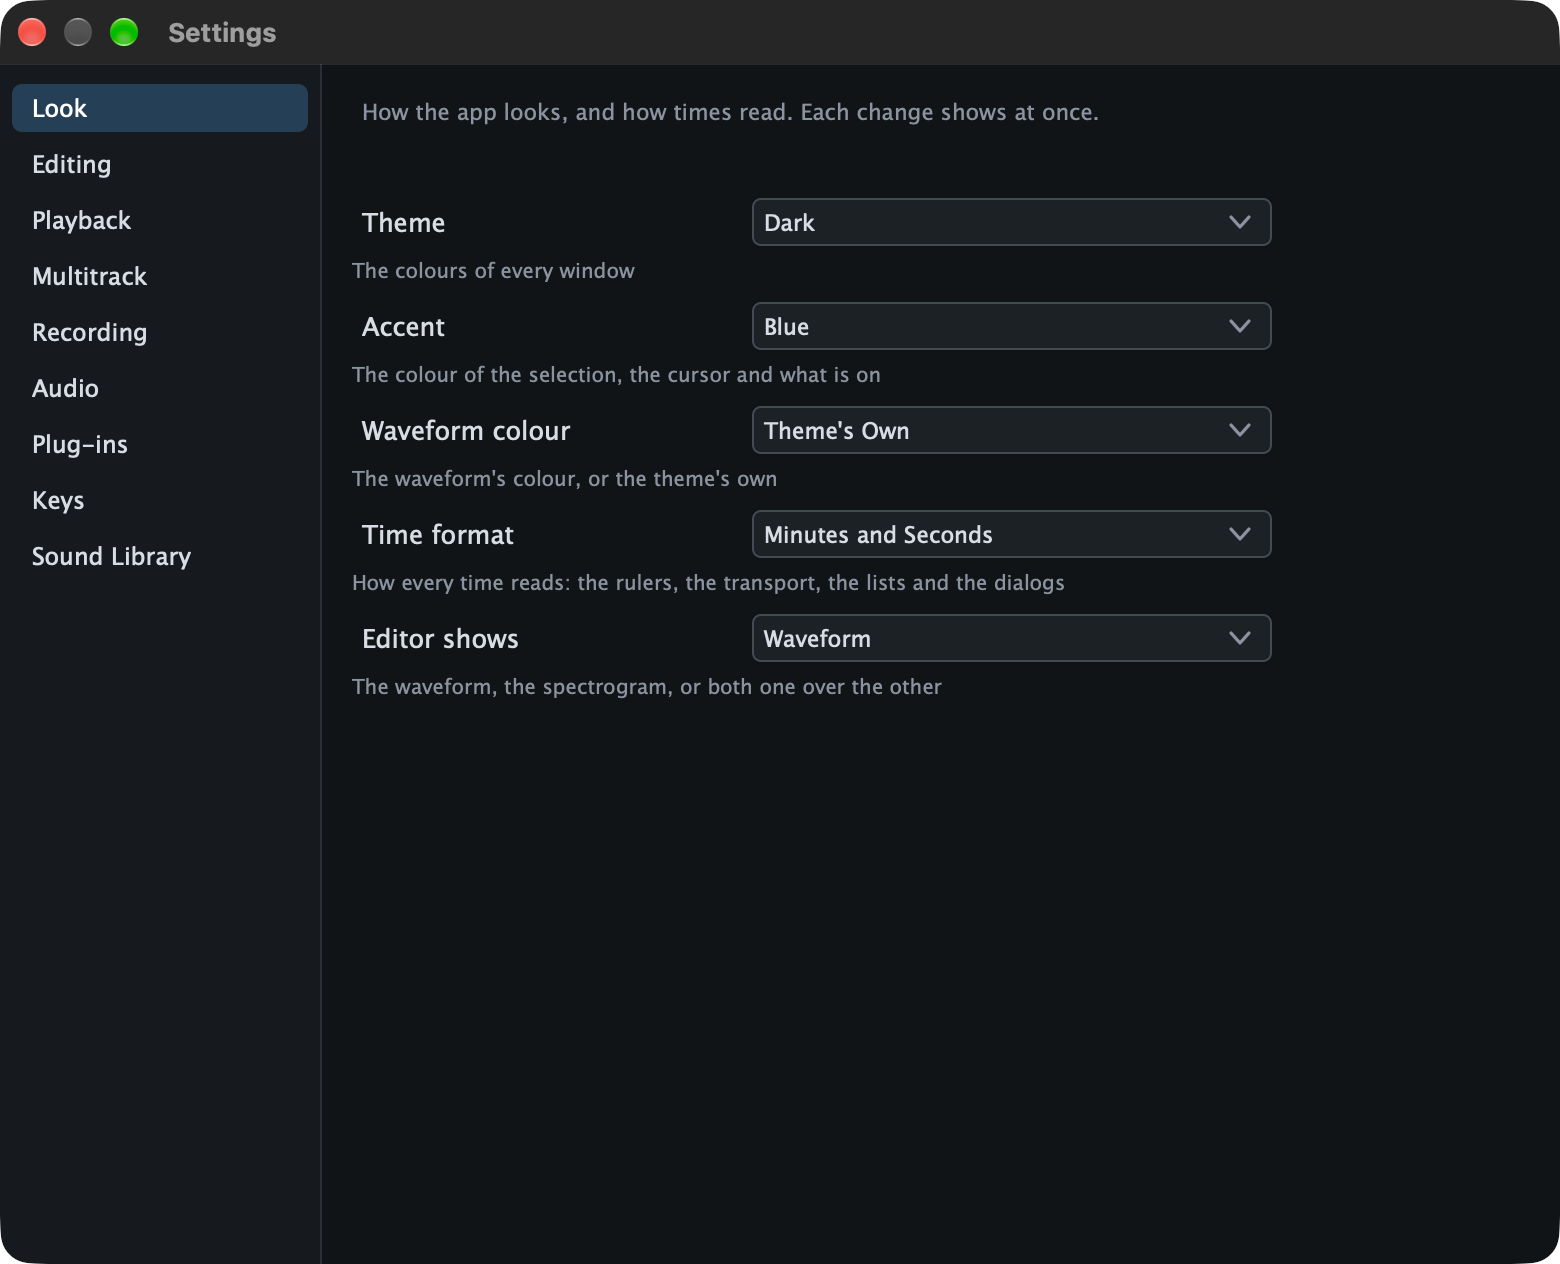
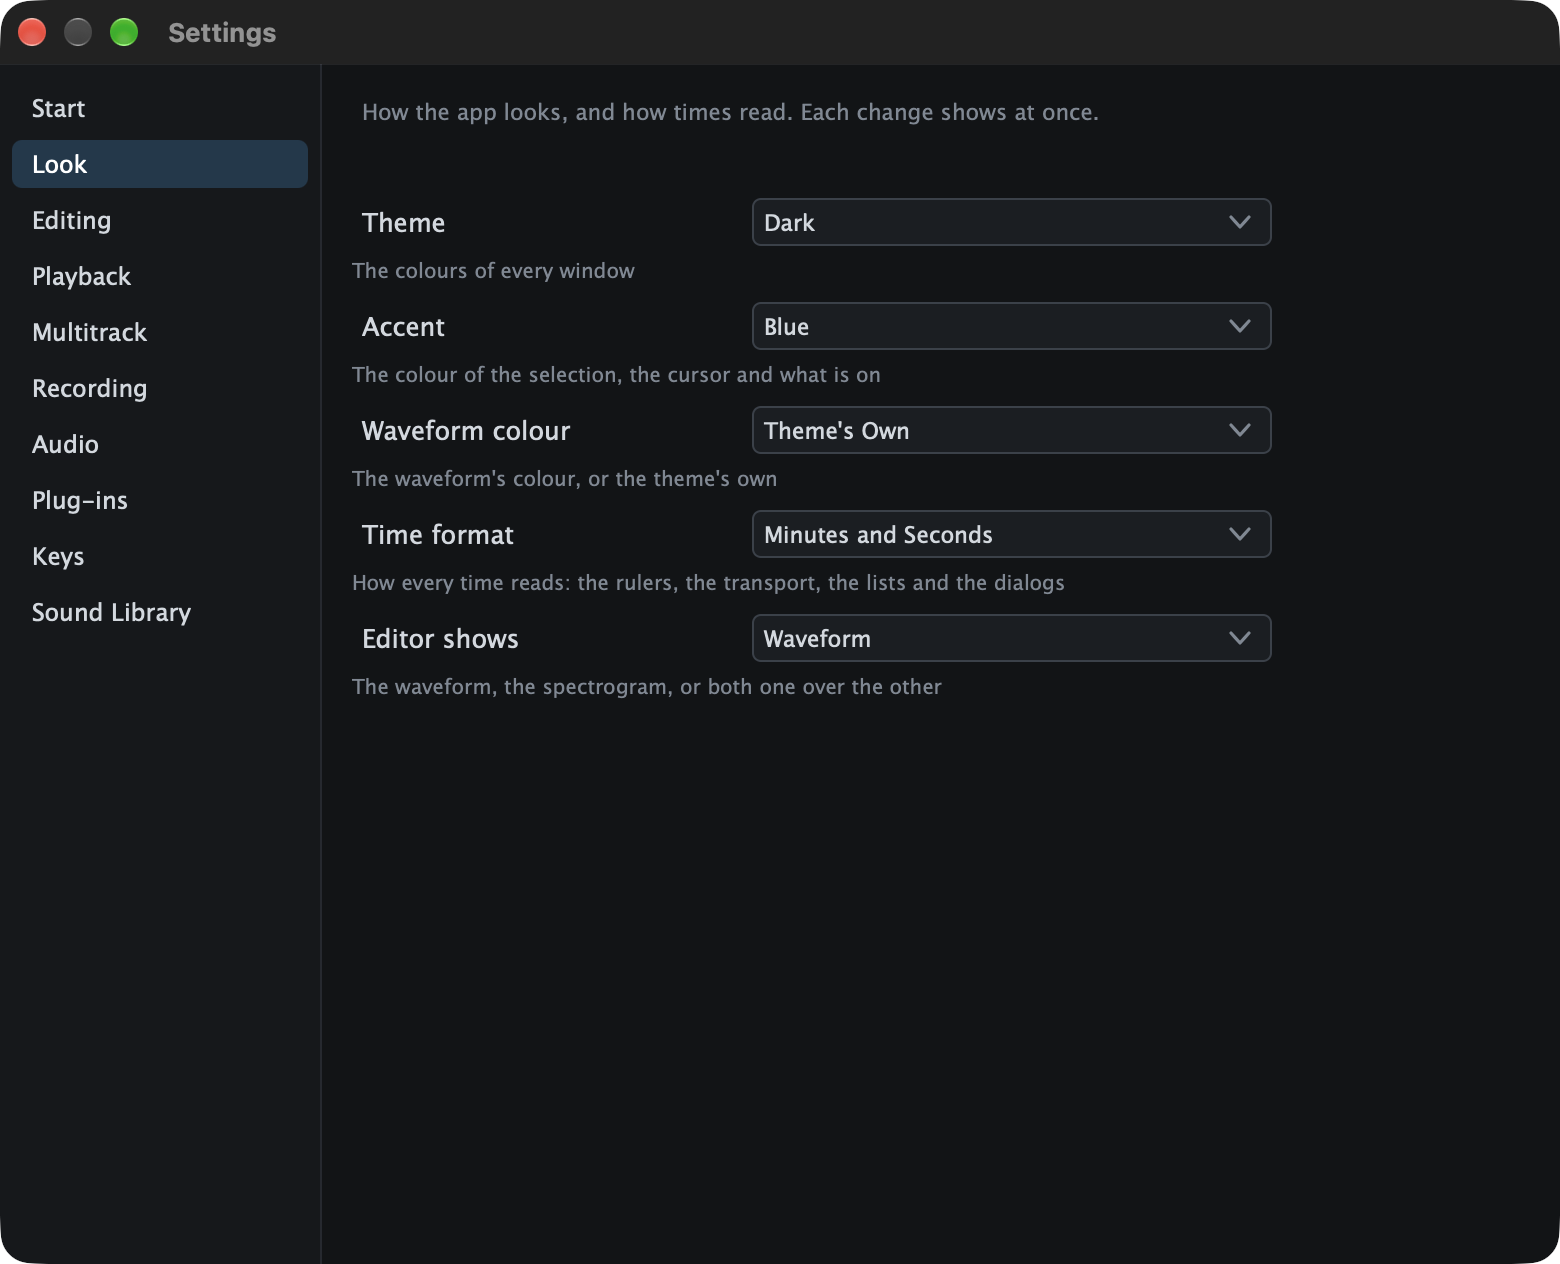
Start on the home screen; Settings > Start can reopen the last file
Torqwave now starts on the home screen. Settings > Start > On start chooses
between the home screen (the default) and reopening the file that was open
when it quit, as it did before.

diff --git a/Source/MainComponent.cpp b/Source/MainComponent.cpp
@@ -1095,14 +1095,15 @@ MainComponent::MainComponent()
 
     RecentFiles::restore (recentFiles, *settings);
 
-    // Reopening the last file is quiet, and read off the message thread, so a slow or absent volume
+    // The last file is reopened only when Settings > Start asks for it; by default the app starts
+    // on the home screen. Reopening is quiet, and read off the message thread, so a slow or absent volume
     // doesn't hold up the window: it comes in when read, unless something else was opened, recorded
     // or edited first. One that can no longer be read is logged and forgotten; one that isn't there
     // (its volume not mounted) is kept for next time.
     loading = std::make_unique<LoadingScreen>();
     loading->onFinished = [this] { bootFinished(); };
 
-    if (const juce::File last (settings->getValue (lastFileKey)); last != juce::File())
+    if (const auto last = Home::fileToReopen (*settings, lastFileKey); last != juce::File())
     {
         loading->begin ("file", "Reopening " + last.getFileName(),
                         "The last file's volume isn't answering. Continue to use Torqwave now; the file opens when it can be read.");
@@ -12405,6 +12406,12 @@ Settings::Model MainComponent::makeSettingsModel()
         fadeNames.add (FadeShapes::id (shape));
 
     Settings::Model model;
+
+    model.push_back ({ "Start", "What Torqwave shows when it opens.",
+        { Item::choice ("On start", "The home screen with your recent files, or the file that was open when you quit",
+                        { "Show the home screen", "Reopen the last file" },
+                        [settings] { return (int) Home::startWith (*settings); },
+                        [settings, changed] (int i) { settings->setValue (Home::startKey, i); changed(); }) } });
 
     model.push_back ({ "Look", "How the app looks, and how times read. Each change shows at once.",
         { Item::choice ("Theme", "The colours of every window", themes,

diff --git a/Tests/HomeTests.cpp b/Tests/HomeTests.cpp
@@ -110,6 +110,27 @@ namespace
 
         check (again != nullptr && *again == *first, "home pictures: the next launch gets the same waveform from the disk");
     }
+
+    void testStart()
+    {
+        const auto last = juce::File::getSpecialLocation (juce::File::tempDirectory).getChildFile ("Last Take.wav");
+        juce::PropertySet settings;
+        settings.setValue ("lastFile", last.getFullPathName());
+        const auto byDefault = Home::startWith (settings) == Home::Start::homeScreen && Home::fileToReopen (settings, "lastFile") == juce::File();
+
+        settings.setValue (Home::startKey, 1);
+        const auto reopens = Home::startWith (settings) == Home::Start::lastFile && Home::fileToReopen (settings, "lastFile") == last;
+
+        settings.setValue ("lastFile", "");
+        const auto nothingKept = Home::fileToReopen (settings, "lastFile") == juce::File();
+
+        settings.setValue (Home::startKey, juce::var (0));
+        settings.setValue ("lastFile", last.getFullPathName());
+        const auto backToHome = Home::fileToReopen (settings, "lastFile") == juce::File();
+
+        check (byDefault && reopens && nothingKept && backToHome,
+               "home: the app starts on the home screen by default, and reopens the last file only when the settings ask for it");
+    }
 }
 
 void runHomeTests()
@@ -119,5 +140,6 @@ void runHomeTests()
     dir.createDirectory();
     testReading (dir);
     testPictures (dir);
+    testStart();
     dir.deleteRecursively();
 }

diff --git a/Source/Home.h b/Source/Home.h
@@ -92,6 +92,16 @@ namespace Home
         void handleAsyncUpdate() override;
     };
 
+    /** What the app shows when it starts: the home screen (the default), or the file that was
+        open when it quit. Kept in the settings under startKey as 0 or 1. */
+    enum class Start { homeScreen, lastFile };
+    inline constexpr const char* startKey = "onStart";
+    Start startWith (const juce::PropertySet& settings);
+
+    /** The file to reopen at start: the one kept under lastFileKey when the settings ask for the
+        last file, otherwise none. */
+    juce::File fileToReopen (const juce::PropertySet& settings, const juce::String& lastFileKey);
+
     /** Draws a card's picture: a waveform, an arrangement, or a plain mark for its kind while
         there is none yet. */
     void drawPicture (juce::Graphics&, juce::Rectangle<float> area, const juce::File&, Pictures&);

diff --git a/Source/Home.cpp b/Source/Home.cpp
@@ -275,6 +275,21 @@ void Pictures::handleAsyncUpdate()
 }
 
 //==============================================================================
+Start startWith (const juce::PropertySet& settings)
+{
+    return settings.getIntValue (startKey, 0) == 1 ? Start::lastFile : Start::homeScreen;
+}
+
+juce::File fileToReopen (const juce::PropertySet& settings, const juce::String& lastFileKey)
+{
+    if (startWith (settings) != Start::lastFile)
+        return {};
+
+    const auto path = settings.getValue (lastFileKey);
+    return juce::File::isAbsolutePath (path) ? juce::File (path) : juce::File();
+}
+
+//==============================================================================
 void drawPicture (juce::Graphics& g, juce::Rectangle<float> area, const juce::File& f, Pictures& pictures)
 {
     g.setColour (Theme::canvas);

diff --git a/docs/guide/01-getting-started.md b/docs/guide/01-getting-started.md
@@ -86,6 +86,8 @@ A workspace can have an accent colour of its own, so you can tell at a glance wh
 
 With nothing open, the editor shows the home screen: buttons for **New File**, **Open...**, **New Session**, **Open Project...** and the **User Guide**, and your recent files, sessions and projects as cards. Each card has a picture of what it holds. An audio file shows its waveform. A session shows its tracks with their clips in their colours. A project shows its session, or the file it had in front. Under the name are the kind, when you last saved it and its folder. Click a card to open it again.
 
+Torqwave starts on the home screen. To have it reopen the file you had open when you quit instead, choose **Reopen the last file** under **File > Settings... > Start**.
+
 ![The home screen with buttons to start and cards for six recent files, sessions and projects](../screenshots/guide-home.png)
 
 The pictures are made in the background the first time and kept, so the home screen draws them at once next time. They follow the theme's colours.
@@ -136,7 +138,7 @@ To come back later to everything you have open (files, effects rack and session)
 
 ## Make it yours
 
-- **File > Settings...** (Cmd-,) holds every setting in one window: Look, Editing, Playback, Multitrack, Recording, Audio, Plug-ins, Keys and the Sound Library. Changes take effect at once.
+- **File > Settings...** (Cmd-,) holds every setting in one window: Start, Look, Editing, Playback, Multitrack, Recording, Audio, Plug-ins, Keys and the Sound Library. Changes take effect at once.
 - **View > Theme** picks one of nine themes, an accent colour and a waveform colour.
 - **View > Time Format** shows every time in the app as one of:
   - minutes and seconds;

diff --git a/CHANGELOG.md b/CHANGELOG.md
@@ -4,7 +4,8 @@ Each milestone as it was built, newest first, with what the tests measured on th
 
 ## Unreleased
 
-Nothing yet.
+**Starting on the home screen**
+- Torqwave starts on the home screen. Before, it reopened the file that was open when it quit, so the home screen showed only after closing every file. Settings > Start > On start chooses between the home screen (the default) and Reopen the last file, which works as before.
 
 ## Released
 

diff --git a/docs/guide/12-customising-and-troubleshooting.md b/docs/guide/12-customising-and-troubleshooting.md
@@ -10,6 +10,7 @@
 
 | Section | What it holds |
 |---|---|
+| Start | Whether the app opens on the home screen (the default) or reopens the file you had open when you quit |
 | Look | Theme, accent, waveform colour, time format, and what the editor shows |
 | Editing | How editing behaves |
 | Playback | How playback behaves |
